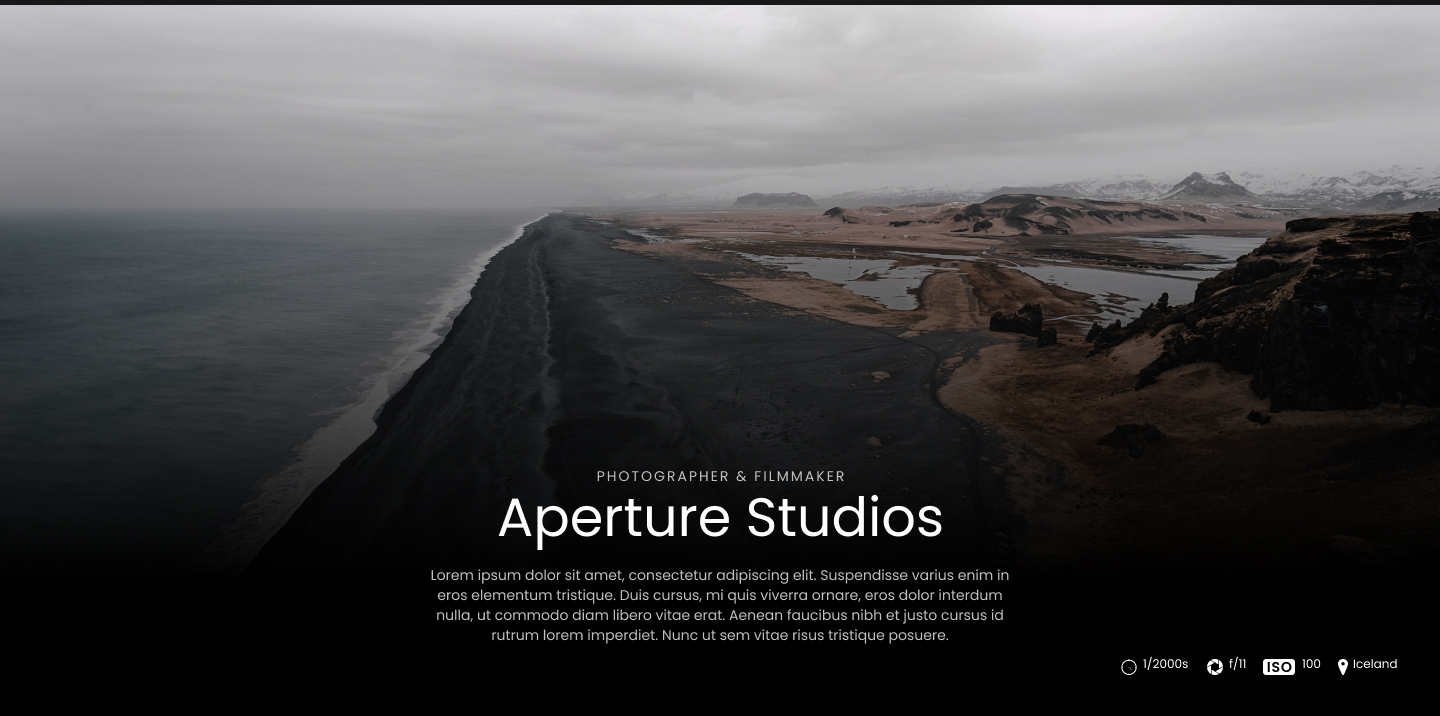
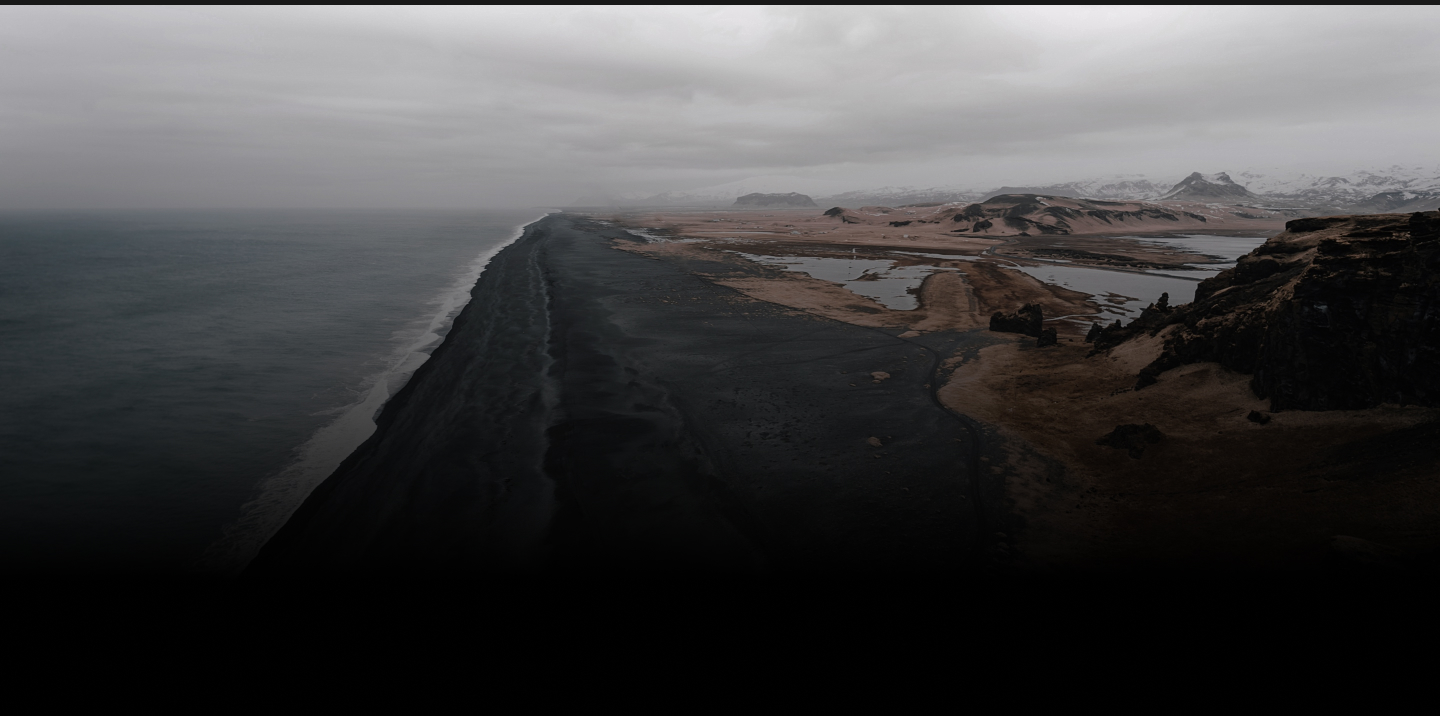
created and adapted main block

diff --git a/css/style.css b/css/style.css
@@ -89,6 +89,7 @@ body {
   font-family: "Poppins";
   font-weight: 400;
   font-size: 14px;
+  line-height: 1;
   background-color: #000;
   color: #c0c0c0;
 }
@@ -118,9 +119,12 @@ body {
 .page {
   flex: 1 1 auto;
 }
+.page__main {
+}
 /* ================================================================================ */
 /* ======================================== Header ======================================== */
 .header {
+  background-color: #181818;
 }
 .header__container {
   display: flex;
@@ -145,12 +149,10 @@ body {
 .menu__item:first-child {
   padding-right: 56px;
 }
-.menu__item {
-}
 .menu__link {
   color: #fff;
   font-size: 13px;
-  line-height: 20px; /* 153.846% */
+  line-height: 153.846%;
 }
 .menu__link:hover {
   text-decoration: underline;
@@ -165,7 +167,7 @@ body {
   text-align: center;
   color: #000;
   font-size: 16px;
-  line-height: 20px; /* 125% */
+  line-height: 125%;
   letter-spacing: 0.4px;
   transition: all 0.3s ease;
 }
@@ -207,6 +209,90 @@ body {
     width: 100%;
     height: 3px;
     background-color: #fff;
+  }
+}
+/* ================================================================================ */
+/* ======================================== Main ======================================== */
+.main {
+  position: relative;
+  min-height: 100vh;
+  z-index: 50;
+}
+.main__container {
+  padding-top: 440px;
+  padding-bottom: 45px;
+  position: relative;
+  z-index: 50;
+  align-items: flex-end;
+}
+.main__body {
+  text-align: center;
+  max-width: 600px;
+  margin: 0px auto;
+  padding-bottom: 20px;
+}
+.main__subtitle {
+  line-height: 142.857%;
+  letter-spacing: 2px;
+  text-transform: uppercase;
+}
+.main__subtitle:not(:last-child) {
+  margin: 0px 0px 5px 0px;
+}
+.main__title {
+  color: #fff;
+  font-size: 54px;
+  line-height: 110%;
+}
+.main__title:not(:last-child) {
+  margin: 0px 0px 18px 0px;
+}
+.main__text {
+  line-height: 142.857%;
+}
+.main__row {
+  display: flex;
+  align-items: center;
+  justify-content: flex-end;
+  gap: 16px;
+}
+.main__icon {
+}
+.main__background {
+  position: absolute;
+  width: 100%;
+  height: 100%;
+  top: 0;
+  left: 0;
+  z-index: 1;
+}
+@media (max-width: 610.98px) {
+  .main__container {
+    padding-top: 340px;
+  }
+  .main__title {
+    font-size: 46px;
+  }
+  .main__row {
+    justify-content: center;
+  }
+}
+@media (max-width: 415.98px) {
+  .main__container {
+    padding-top: 240px;
+  }
+  .main__title {
+    font-size: 40px;
+  }
+}
+@media (max-width: 360px) {
+  .main__title {
+    font-size: 36px;
+  }
+}
+@media (max-width: 330px) {
+  .main__title {
+    font-size: 33px;
   }
 }
 /* ================================================================================ */

diff --git a/index.html b/index.html
@@ -38,7 +38,39 @@
         </div>
       </header>
       <main class="page">
-        <div class="page__container"></div>
+        <section class="page__main main">
+          <div class="main__container">
+            <div class="main__body">
+              <div class="main__subtitle">Photographer & Filmmaker</div>
+              <h1 class="main__title">Aperture Studios</h1>
+              <div class="main__text">
+                Lorem ipsum dolor sit amet, consectetur adipiscing elit.
+                Suspendisse varius enim in eros elementum tristique. Duis
+                cursus, mi quis viverra ornare, eros dolor interdum nulla, ut
+                commodo diam libero vitae erat. Aenean faucibus nibh et justo
+                cursus id rutrum lorem imperdiet. Nunc ut sem vitae risus
+                tristique posuere.
+              </div>
+            </div>
+            <div class="main__row">
+              <div class="main__icon">
+                <img src="img/main/icons/01.svg" alt="" />
+              </div>
+              <div class="main__icon">
+                <img src="img/main/icons/02.svg" alt="" />
+              </div>
+              <div class="main__icon">
+                <img src="img/main/icons/03.svg" alt="" />
+              </div>
+              <div class="main__icon">
+                <img src="img/main/icons/04.svg" alt="" />
+              </div>
+            </div>
+          </div>
+          <div class="main__background _ibg">
+            <img src="img/main/bg.jpg" alt="" />
+          </div>
+        </section>
       </main>
       <footer class="footer"></footer>
     </div>
